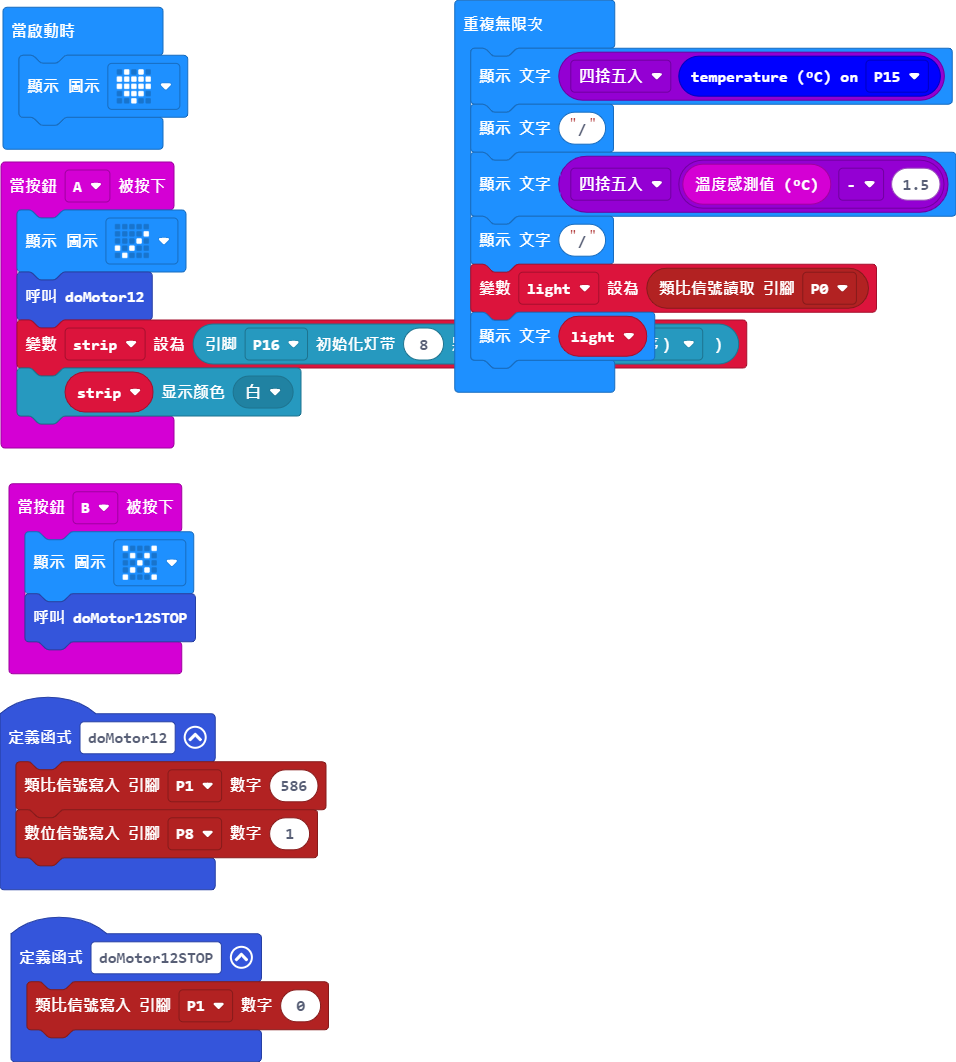
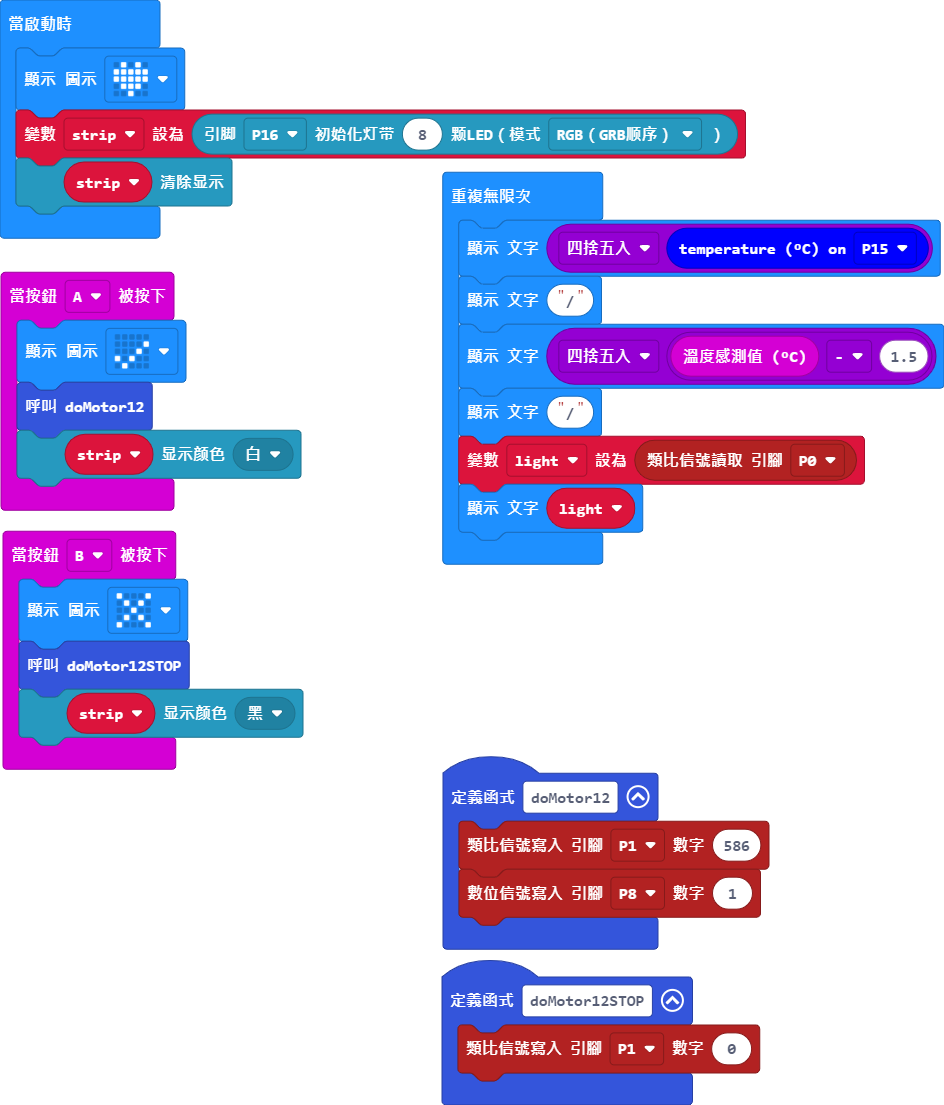
清除LED

diff --git a/main.ts b/main.ts
@@ -4,7 +4,6 @@ function doMotor12STOP () {
 input.onButtonPressed(Button.A, function () {
     basic.showIcon(IconNames.Yes)
     doMotor12()
-    strip = neopixel.create(DigitalPin.P16, 8, NeoPixelMode.RGB)
     strip.showColor(neopixel.colors(NeoPixelColors.White))
 })
 function doMotor12 () {
@@ -14,10 +13,13 @@ function doMotor12 () {
 input.onButtonPressed(Button.B, function () {
     basic.showIcon(IconNames.No)
     doMotor12STOP()
+    strip.showColor(neopixel.colors(NeoPixelColors.Black))
 })
 let light2 = 0
 let strip: neopixel.Strip = null
 basic.showIcon(IconNames.Heart)
+strip = neopixel.create(DigitalPin.P16, 8, NeoPixelMode.RGB)
+strip.clear()
 basic.forever(function () {
     basic.showString("" + (Math.round(dstemp.celsius(DigitalPin.P15))))
     basic.showString("/")
